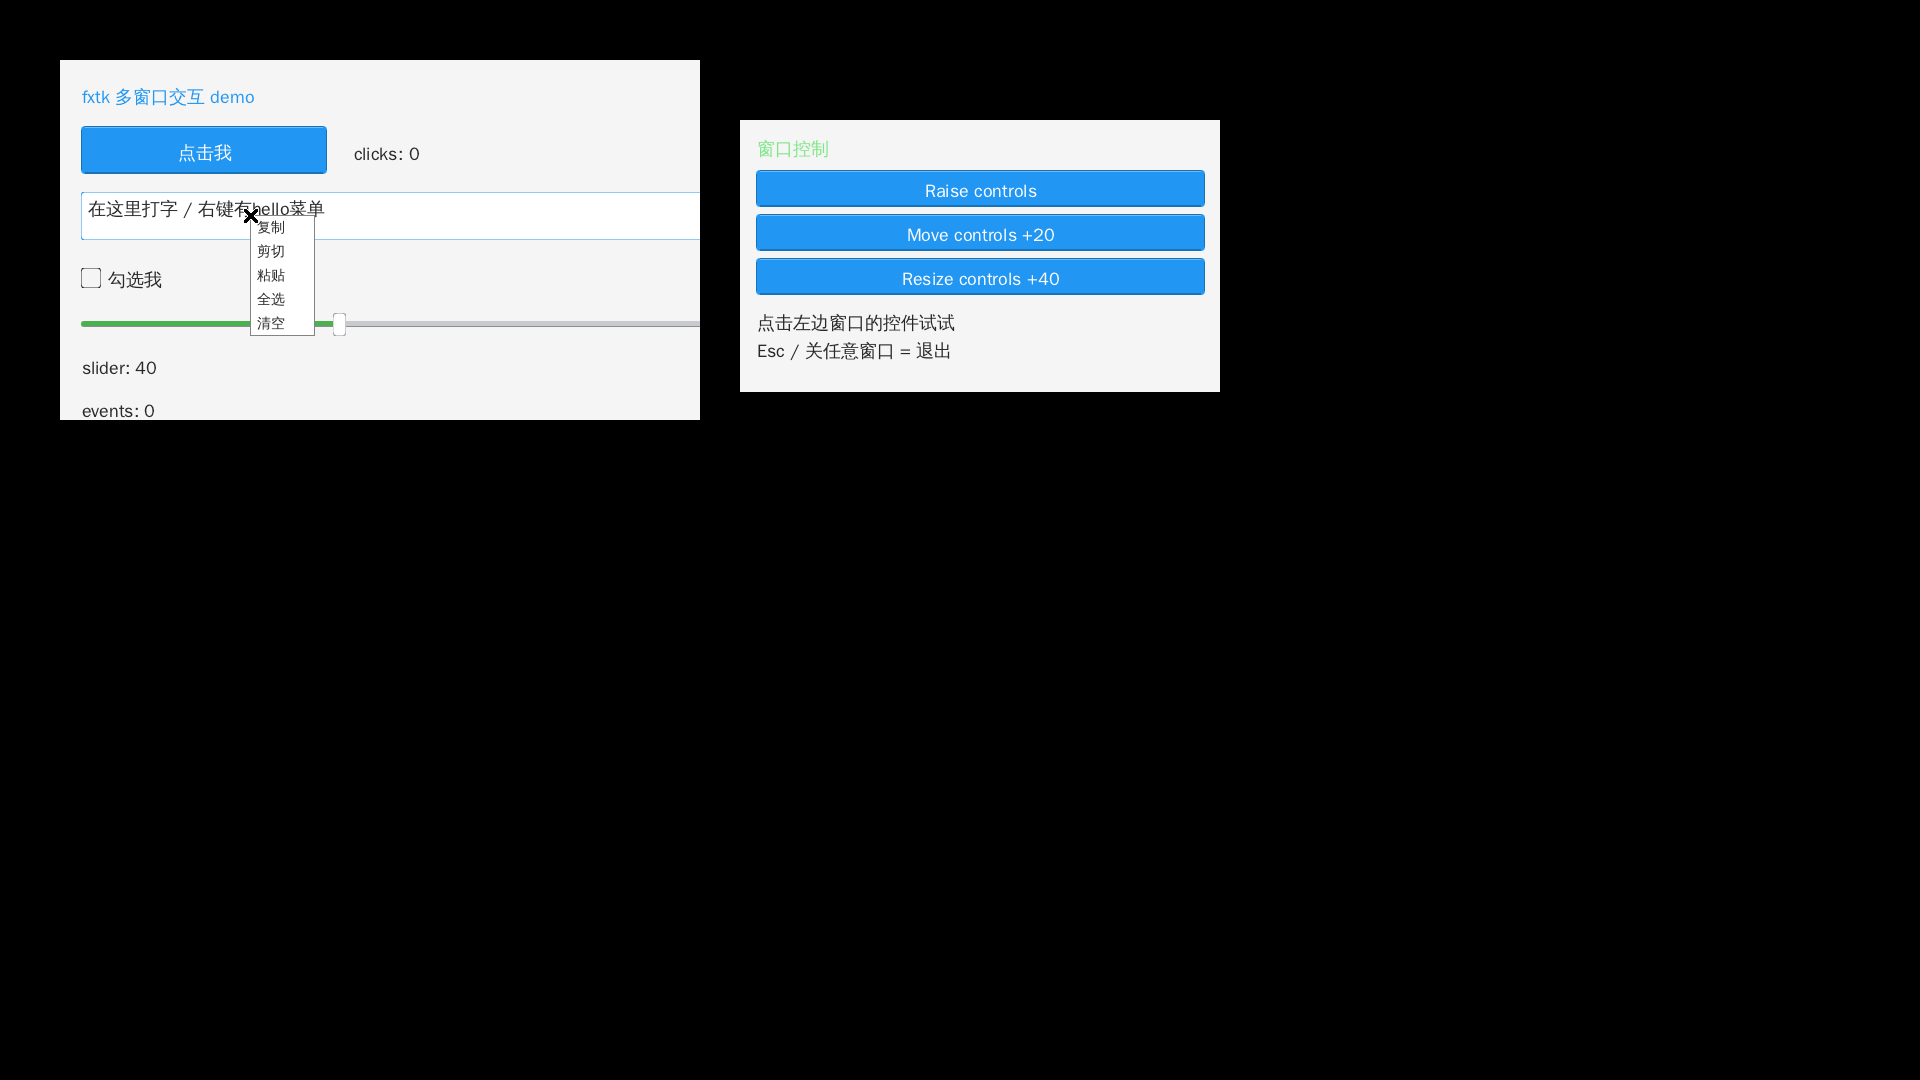
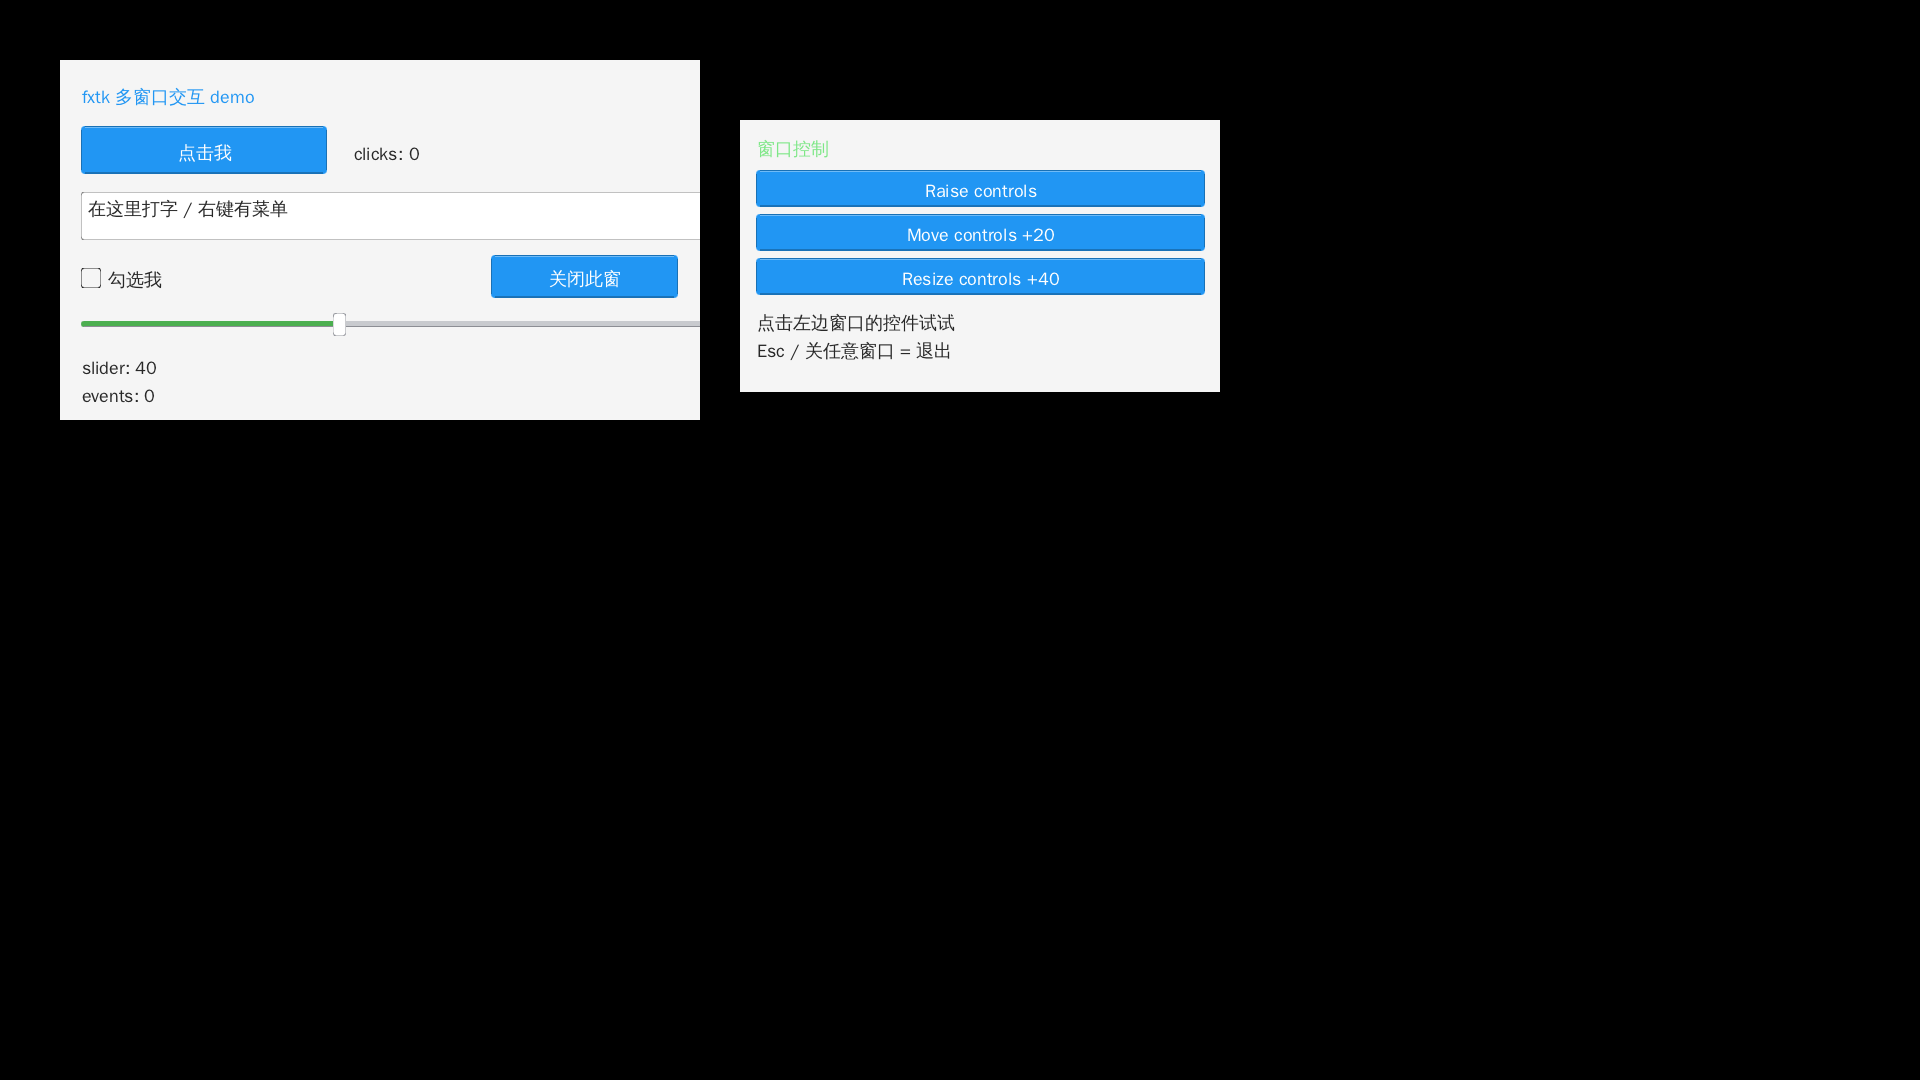
fix(mw): 外部缩放同步客户区尺寸 + 尺寸缓存 LRU + demo 布局越界
- X11 从未处理 ConfigureNotify、Win32 从未处理 WM_SIZE: 用户拖边框/最大化后
  W[id].w/h 停在创建值, 驱动仍按旧尺寸设 GL viewport(原点在左下角) → 放大后
  内容缩在左下角、其余区域全黑(实测 640x360 → 900x600 复现);
  现在两个后端都同步客户区尺寸
- fxtk_sokol_apply_size() 的多窗口分支补上 fx_layout()/fx_repaint()
  (单窗口分支一直有, 多窗口分支漏了), 不换根的应用缩放后也会重排重绘
- canvas/framebuffer 的 24 槽尺寸缓存满时改 LRU 淘汰并释放旧资源:
  原先帧缓冲指针直接丢失(连续拖拽泄漏), 画布则留在旧槽上原地重建抖动
- mw_interactive: "关闭此窗"按钮(y=286..322)与 "events" 标签(y=276)超出
  480x272 设计区, 按钮从未画出来; 移进设计区并重新生成 docs/mw_interactive.png
- 复核: Xvfb + xdotool 连续 40 个尺寸往返, 内容铺满/缓存复用/不崩; 应用侧
  fxtk_win_resize 与 Esc 退出路径同时复测

Changed region(s): [[0.25, 0.2139, 0.375, 0.275], [0.125, 0.1833, 0.1875, 0.3056], [0.0312, 0.3667, 0.0938, 0.3972]]

diff --git a/drivers/fxtk_sokol_driver.c b/drivers/fxtk_sokol_driver.c
@@ -119,6 +119,11 @@ static sg_image s_mw_img[24];
 static sg_view  s_mw_attach[24], s_mw_tex[24];
 static int s_mw_w[24], s_mw_h[24], s_mw_n = 0, s_cvi = 0;
 static int s_mw_clear[24];
+/* v2.5.3: 尺寸缓存(画布/帧缓冲)都按"尺寸"索引, 上限 24。用户拖拽缩放会持续产生新尺寸,
+ * 满了必须淘汰最久未用的那一项 —— 早先"满了就放弃入缓存"会让旧帧缓冲指针直接丢失(内存泄漏),
+ * 画布缓存满则原地重建, 导致两个窗口来回切时每帧销毁/重建纹理。 */
+static int s_mw_cvuse[24];          /* 画布槽最近使用序号 */
+static int s_mw_use_clock = 0;      /* 单调递增的使用序号 */
 #define MW_NEED_CLEAR (s_need_clear || s_mw_clear[s_cvi])
 #define s_canvas_img    (s_mw_img[s_cvi])
 #define s_canvas_attach (s_mw_attach[s_cvi])
@@ -126,9 +131,20 @@ static int s_mw_clear[24];
 #define s_canvas_w      (s_mw_w[s_cvi])
 #define s_canvas_h      (s_mw_h[s_cvi])
 static void canvas_select(void){
-    for (int i = 0; i < s_mw_n; i++) if (s_mw_w[i] == s_w && s_mw_h[i] == s_h) { s_cvi = i; return; }
-    if (s_mw_n < 24) { s_cvi = s_mw_n++; s_mw_w[s_cvi] = s_w; s_mw_h[s_cvi] = s_h;
-        s_mw_img[s_cvi].id = SG_INVALID_ID; s_mw_clear[s_cvi] = 1; }
+    for (int i = 0; i < s_mw_n; i++) if (s_mw_w[i] == s_w && s_mw_h[i] == s_h) {
+        s_mw_cvuse[i] = ++s_mw_use_clock; s_cvi = i; return; }
+    int slot;
+    if (s_mw_n < 24) slot = s_mw_n++;
+    else {   /* v2.5.3: 满了按 LRU 淘汰(并释放它的纹理), 而不是把 s_cvi 留在旧槽上 */
+        slot = 0; for (int i = 1; i < 24; i++) if (s_mw_cvuse[i] < s_mw_cvuse[slot]) slot = i;
+        if (s_mw_img[slot].id != SG_INVALID_ID) {
+            sg_destroy_view(s_mw_attach[slot]); sg_destroy_view(s_mw_tex[slot]);
+            sg_destroy_image(s_mw_img[slot]);
+            s_mw_img[slot].id = SG_INVALID_ID;
+        }
+    }
+    s_cvi = slot; s_mw_w[slot] = s_w; s_mw_h[slot] = s_h; s_mw_clear[slot] = 1;
+    s_mw_cvuse[slot] = ++s_mw_use_clock;
 }
 #else
 static sg_image s_canvas_img;
@@ -1395,6 +1411,7 @@ int  fxtk_sokol_vtx_count(void) { return s_vb_n; }
 /* 多窗口模式: 不同窗口尺寸来回切换, 帧缓冲按尺寸缓存, 避免每帧 malloc/free */
 static uint32_t *s_mw_fb[24];
 static int s_mw_fbw[24], s_mw_fbh[24], s_mw_fbn = 0;
+static int s_mw_fbuse[24];   /* v2.5.3: LRU 序号, 缓存满时淘汰最久未用尺寸的帧缓冲 */
 #endif
 
 void fxtk_sokol_apply_size(int w, int h)
@@ -1415,14 +1432,31 @@ void fxtk_sokol_apply_size(int w, int h)
 #ifdef FXTK_MW
     {   int found = 0;
         for (int i = 0; i < s_mw_fbn; i++) if (s_mw_fbw[i] == w && s_mw_fbh[i] == h) {
-            s_fb = s_mw_fb[i]; s_fb_w = w; s_fb_h = h; s_dirty = 0; found = 1; break; }
+            s_fb = s_mw_fb[i]; s_fb_w = w; s_fb_h = h; s_dirty = 0;
+            s_mw_fbuse[i] = ++s_mw_use_clock; found = 1; break; }
         if (!found) {
+            int slot;
+            if (s_mw_fbn < 24) slot = s_mw_fbn++;
+            else {   /* v2.5.3: 满了淘汰最久未用的尺寸(跳过当前正在用的缓冲), 释放旧内存防泄漏 */
+                slot = -1;
+                for (int i = 0; i < 24; i++) {
+                    if (s_mw_fb[i] == s_fb) continue;             /* 当前缓冲不能释放 */
+                    if (slot < 0 || s_mw_fbuse[i] < s_mw_fbuse[slot]) slot = i;
+                }
+                if (slot < 0) slot = 0;
+                free(s_mw_fb[slot]); s_mw_fb[slot] = NULL;
+            }
             s_fb = NULL; s_fb_w = s_fb_h = 0; s_dirty = 0;
             fb_ensure();
-            if (s_mw_fbn < 24) { s_mw_fb[s_mw_fbn] = s_fb; s_mw_fbw[s_mw_fbn] = w; s_mw_fbh[s_mw_fbn] = h; s_mw_fbn++; }
+            s_mw_fb[slot] = s_fb; s_mw_fbw[slot] = w; s_mw_fbh[slot] = h;
+            s_mw_fbuse[slot] = ++s_mw_use_clock;
         }
     }
     s_need_clear = 1;
+    /* v2.5.3: 多窗口分支之前漏了重排+重绘。应用若只用一个控件根(不逐帧 fx_root_select 换根),
+     * 外部缩放窗口后布局会停在旧尺寸 —— 表现为内容缩在左下角、其余区域全黑(实测 900x600 复现)。 */
+    fx_layout();
+    fx_repaint();
 #else
     free(s_fb); s_fb = NULL; s_fb_w = s_fb_h = 0; s_dirty = 0;
     fb_ensure();

diff --git a/drivers/fxtk_sokol_mw.c b/drivers/fxtk_sokol_mw.c
@@ -70,6 +70,7 @@ static void mw_pend_flush(int id)
 static HGLRC s_ctx; static HDC s_dc0; static int s_pf = 0; static PIXELFORMATDESCRIPTOR s_pfd;
 static int s_quit = 0;
 static int mw_id_of_hwnd(HWND h);   /* 定义在 W[] 之后 */
+static void mw_note_size(int id, int w, int h);   /* v2.5.3: WM_SIZE 同步客户区尺寸, 定义在 W[] 之后 */
 static LRESULT CALLBACK mw_wndproc(HWND hw, UINT msg, WPARAM wp, LPARAM lp)
 {
     int id = mw_id_of_hwnd(hw);
@@ -127,6 +128,9 @@ static LRESULT CALLBACK mw_wndproc(HWND hw, UINT msg, WPARAM wp, LPARAM lp)
         mw_pend_push(id, MWP_WHEEL, pt.x, pt.y, (int)(short)HIWORD(wp) / 120 * 40, 0, NULL);
         return 0;
     }
+    case WM_SIZE:   /* v2.5.3: 用户拖边框/最大化窗口时同步客户区尺寸, 否则仍按旧尺寸绘制 */
+        if (wp != SIZE_MINIMIZED) mw_note_size(id, (int)LOWORD(lp), (int)HIWORD(lp));
+        return 0;
     }
     return DefWindowProcW(hw, msg, wp, lp);   /* 窗口是 Unicode 的, 必须用 W 版默认过程 */
 }
@@ -134,6 +138,8 @@ typedef struct { HWND hw; HDC dc; int w, h, shown; } mwwin_t;
 static mwwin_t W[FXTK_MW_MAX]; static int NW_ = 0, s_cur = -1;
 static int s_inited = 0;
 static int mw_id_of_hwnd(HWND h) { for (int i = 0; i < NW_; i++) if (W[i].hw == h) return i; return -1; }
+static void mw_note_size(int id, int w, int h)
+{ if (id >= 0 && id < NW_ && w > 0 && h > 0) { W[id].w = w; W[id].h = h; } }   /* v2.5.3 */
 
 int fxtk_mw_init(void)
 {
@@ -432,6 +438,13 @@ void fxtk_mw_poll(void)
             break;
         case MotionNotify:
             mw_pend_push(id, MWP_MOVE, e.xmotion.x, e.xmotion.y, (e.xmotion.state & Button1Mask) ? 1 : 0, 0, NULL);
+            break;
+        case ConfigureNotify:   /* v2.5.3: 外部缩放/最大化窗口时同步客户区尺寸 */
+            if (e.xconfigure.width > 0 && e.xconfigure.height > 0 &&
+                (e.xconfigure.width != W[id].w || e.xconfigure.height != W[id].h)) {
+                W[id].w = e.xconfigure.width;
+                W[id].h = e.xconfigure.height;
+            }
             break;
         default: break;
         }

diff --git a/examples/mw_interactive.c b/examples/mw_interactive.c
@@ -51,8 +51,10 @@ static void build_controls(fx_widget_t *r)
     fx_checkbox_new(pixel("16,150","320,180"), name("cb"), title("勾选我"), call(on_check));
     fx_slider_new(pixel("16,190","500,210"), name("sl"), value(40), call(on_slider));
     lbl_slider = fx_label_new(pixel("16,218","500,244"), name("slv"), title("slider: 40"));
-    lbl_events = fx_label_new(pixel("16,250","500,276"), name("ev"), title("events: 0"));
-    fx_button_new(pixel("16,286","200,322"), name("quit"), title("关闭此窗"), call(on_quit));
+    /* v2.5.3: 这两行原来写到 y=276/322, 超出 480x272 设计高度 —— "关闭此窗"按钮永远画不出来,
+     * "events" 标签在窗口下沿被切掉。移进设计区: 关闭按钮与复选框同一行, events 收在底部。 */
+    lbl_events = fx_label_new(pixel("16,240","500,264"), name("ev"), title("events: 0"));
+    fx_button_new(pixel("324,148","464,180"), name("quit"), title("关闭此窗"), call(on_quit));
 }
 
 static void build_panel(fx_widget_t *r)

diff --git a/docs/multi-window.md b/docs/multi-window.md
@@ -117,8 +117,9 @@ while (!fxtk_win_quit()) {
 ## 5. 后端实现要点（维护者看）
 
 - 一进程一 GL 上下文；每个窗口 `CreateWindow` + 同一个 pixel format，渲染前 `make_current`。
-- 每窗口 canvas/framebuffer 按**尺寸**缓存（24 槽）。**不要逐帧改窗口尺寸**：每个新尺寸都会新建
-  缓存，连续 resize 会打爆缓存并触发 sokol 校验 panic（表现为闪屏/黑窗/崩溃）。
+- 每窗口 canvas/framebuffer 按**尺寸**缓存（24 槽）。v2.5.3 起缓存满时按 LRU 淘汰（同时释放
+  帧缓冲/纹理），因此用户拖拽窗口连续缩放不会泄漏或撑爆缓存；仍不建议应用**每帧**改尺寸
+  （每帧换一个新尺寸会一直走淘汰路径，浪费带宽）。
 - **必须关 vsync**：N 个窗口串行 `SwapBuffers`，若开 vsync 会互相等垂直同步，帧率掉到
   `60/N`；帧率由应用自己的 fps 上限控制。
 - 窗口事件走原生 API：Win32 `PeekMessageW/DispatchMessageW`（`WM_CLOSE`/`WM_DESTROY`/ESC）；
@@ -130,7 +131,9 @@ while (!fxtk_win_quit()) {
   - 真 HiDPI 未验证（沿用 DPI-unaware + 系统缩放）；
   - 没有窗口图标/最小化状态/每窗口独立消息回调；
   - **剪贴板在 MW 下未实现**（右键菜单"粘贴/复制"目前是空操作）；中文输入法(IME)在 sokol/MW 路径同样未接；
-  - 窗口被用户拖动/缩放后，应用侧不会收到尺寸变化回调（demo 的窗口缩放由应用自己调 `fxtk_win_resize`）。
+  - 窗口被用户拖动/缩放后**没有事件回调**；v2.5.3 起后端会同步客户区尺寸，下一帧自动重排/重绘，
+    应用可轮询 `fxtk_win_width/height` 取新尺寸（此前不处理 ConfigureNotify/WM_SIZE，放大后内容
+    会缩在左下角、其余区域全黑）。窗口被移动(x/y)不触发重绘。
 
 ## 6. 验证
 
@@ -138,6 +141,8 @@ while (!fxtk_win_quit()) {
   按钮点击、复选框、滑杆拖动、文本框键盘输入（ASCII）、右键菜单、窗口 raise/move/resize；
 - MV 用例：`mv/pv/v2/single/`，6 窗口渲染 + 全片 212s（窗口缩放/移动/闪白），验证渲染与后端稳定性；
 - 冒烟：多窗口标题栏/内容正常、关任意窗退出、连续 resize 不闪/不崩；
+- **外部缩放**（v2.5.3）：Xvfb + xdotool 把窗口从 640x360 连改 40 个尺寸后回到原尺寸，内容始终铺满、
+  无黑带、缓存复用正常；应用侧 `fxtk_win_resize` 路径同样复测；
 - 已知坑/回归命令见 MV 仓库 `mv/pv/v2/single/MAINTENANCE.md` 第 5、6 节。
 
 ## 附：与画布内窗口管理器（`fxtk_wm`）的区别

diff --git a/docs_en/multi_window_en.md b/docs_en/multi_window_en.md
@@ -5,8 +5,11 @@ Experimental backend in branch `feat/multi-window` (merged to main via PR #12).
 - One process, one GL context, N native windows (Win32 WGL / X11 GLX).
 - App API: `fxtk_win_create / create_ex(borderless) / show / raise / move / resize / title /
   begin / end / width / height / poll / quit / time / screen / client_offset`.
-- Each window has its own offscreen canvas (cached by size); vsync is disabled (serial SwapBuffers).
+- Each window has its own offscreen canvas/framebuffer (cached by size, LRU-evicted when full);
+  vsync is disabled (serial SwapBuffers).
+- Mouse/keyboard input is delivered to the widget tree of the focused window (v2.5.2).
 - Close any window (or Esc) quits the program. Titles are UTF-8.
-- Limits: X11 only, primary screen, max 8 windows, input events are not forwarded to widgets yet,
-  real HiDPI untested.
+- External resizes (WM drag / maximize) are picked up via ConfigureNotify (X11) / WM_SIZE (Win32) since
+  v2.5.3: the backend syncs the client size and re-lays out / repaints on the next frame.
+- Limits: X11 only, primary screen, max 8 windows, no clipboard/IME in the MW path, real HiDPI untested.
 - Full design/maintenance doc (Chinese): [../docs/multi-window.md](../docs/multi-window.md).
